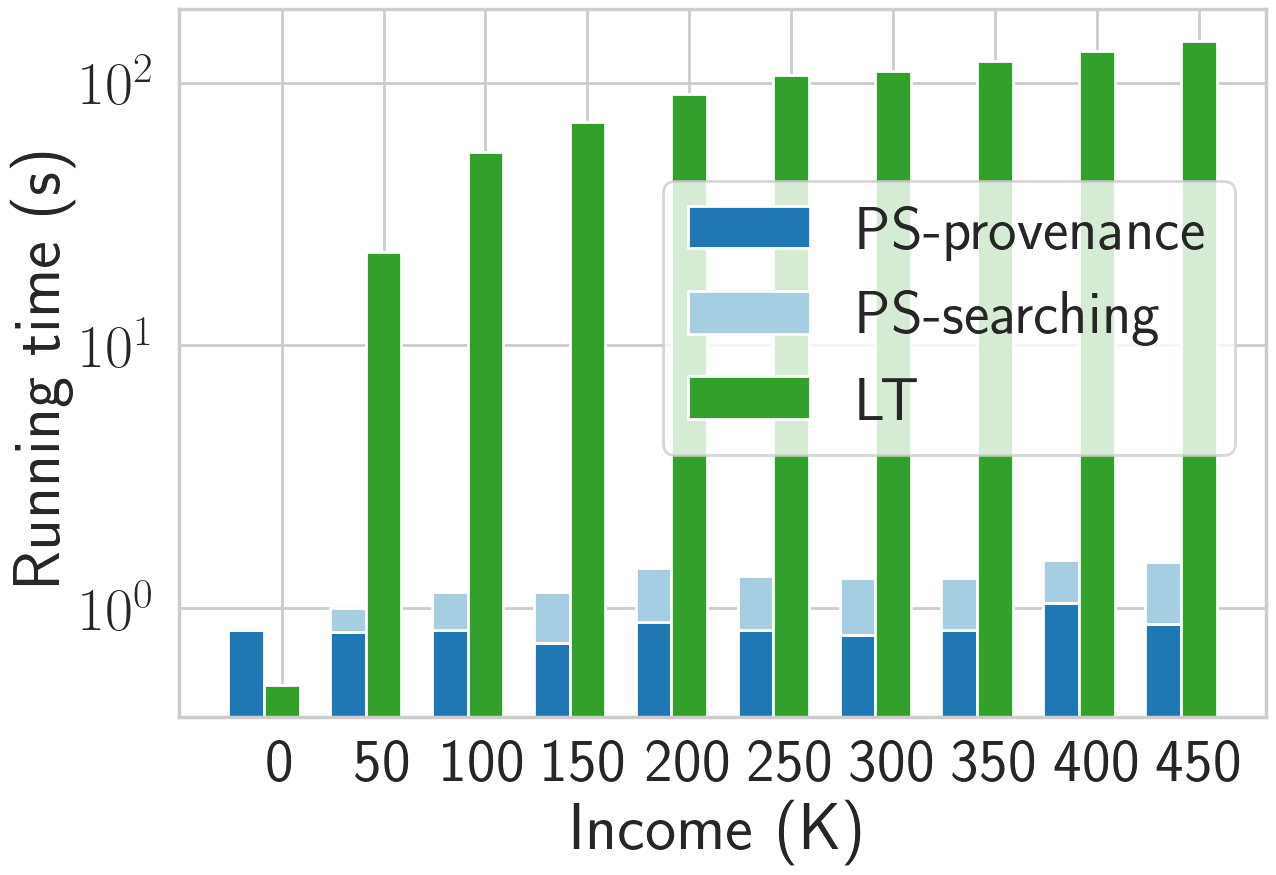
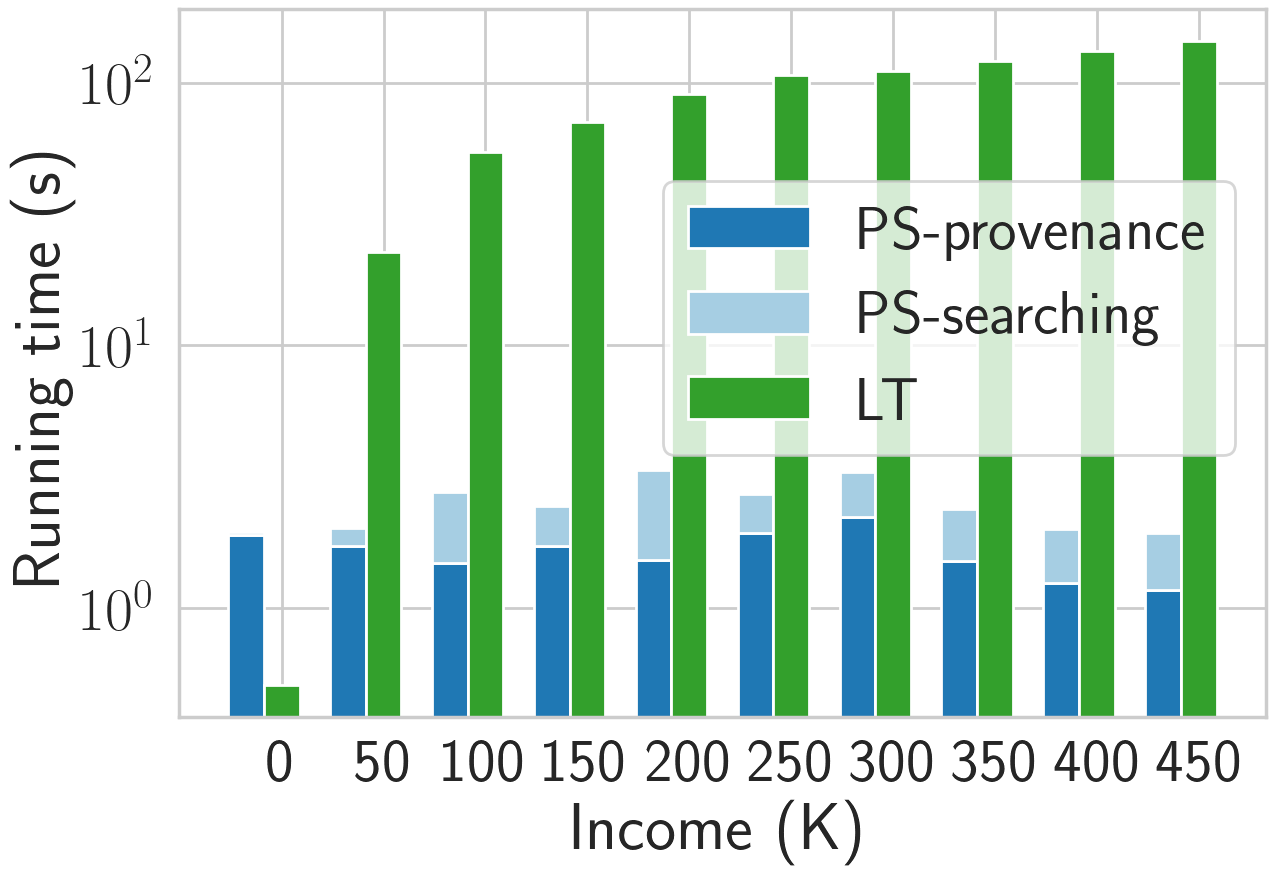
healthcare q1c1 query change

diff --git a/Experiment/healthcare/query_change_2/Q1C1/query_change_q1c1.py b/Experiment/healthcare/query_change_2/Q1C1/query_change_q1c1.py
@@ -10,7 +10,7 @@ import time
 from intbitset import intbitset
 import json
 
-from Algorithm import ProvenanceSearchValues_6_20220825 as ps
+from Algorithm import ProvenanceSearchValues_7_20220827 as ps
 from Algorithm import LatticeTraversal_2_2022405 as lt
 
 minimal_refinements1 = []
